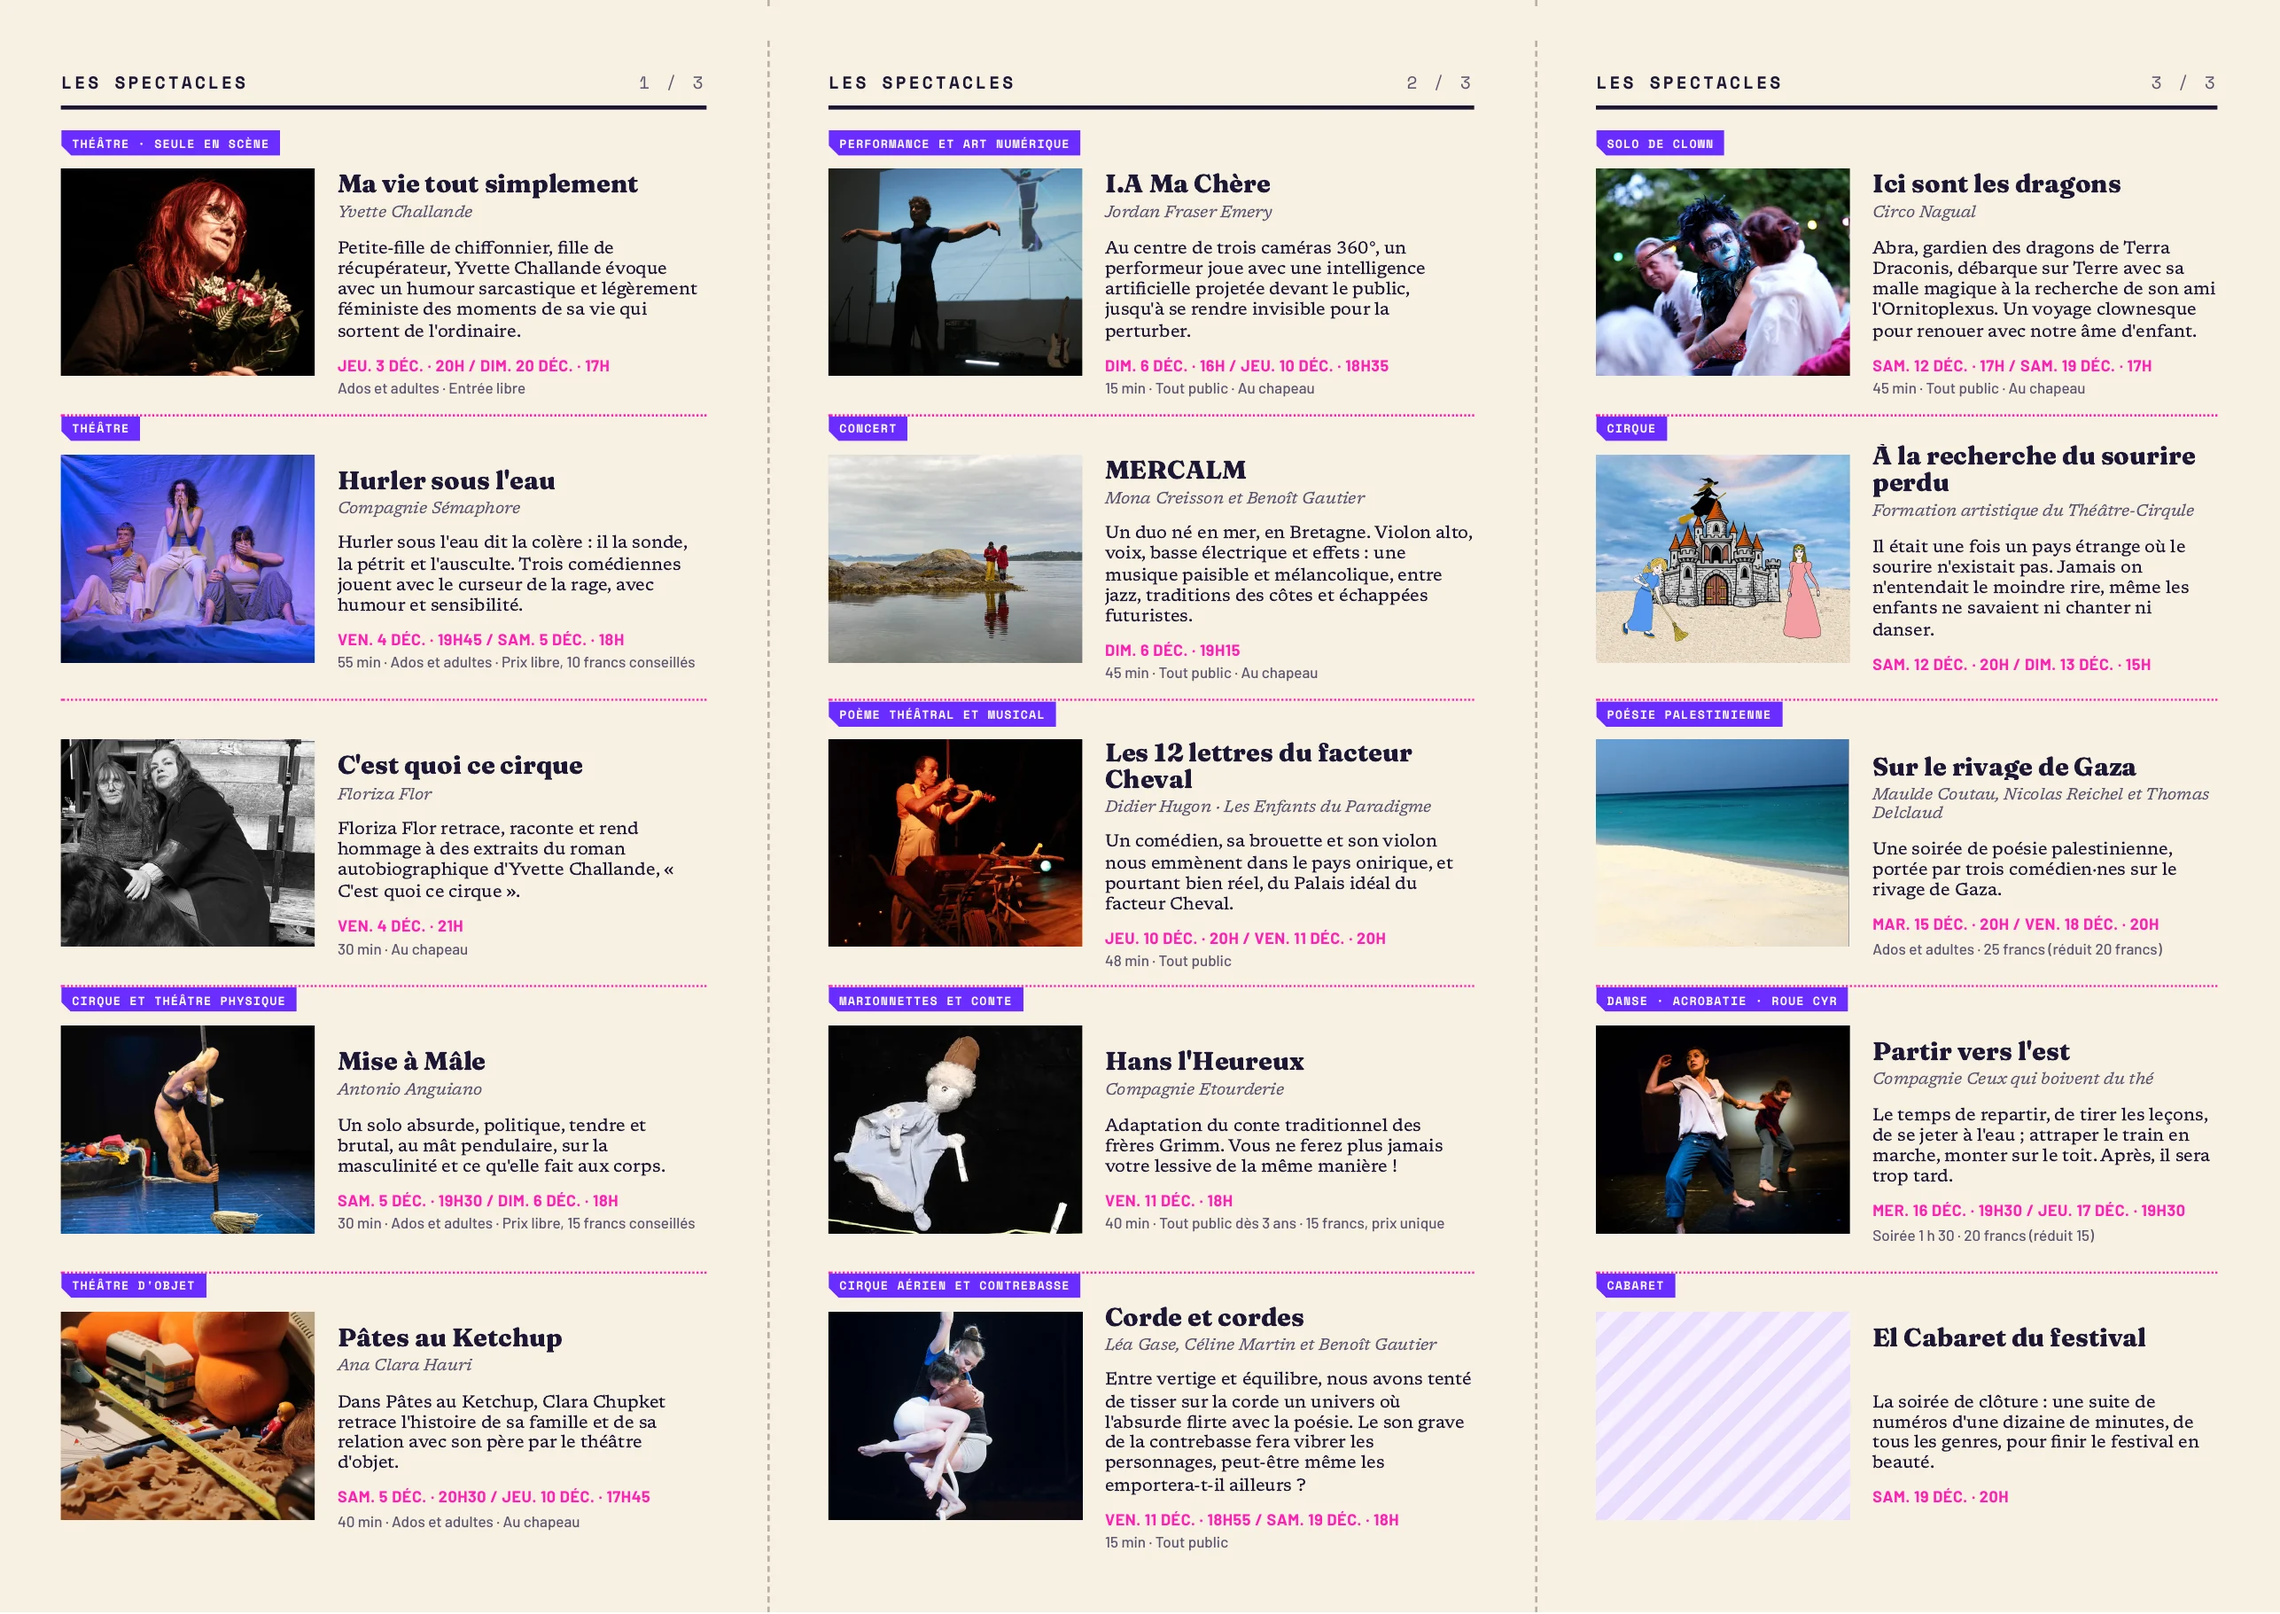
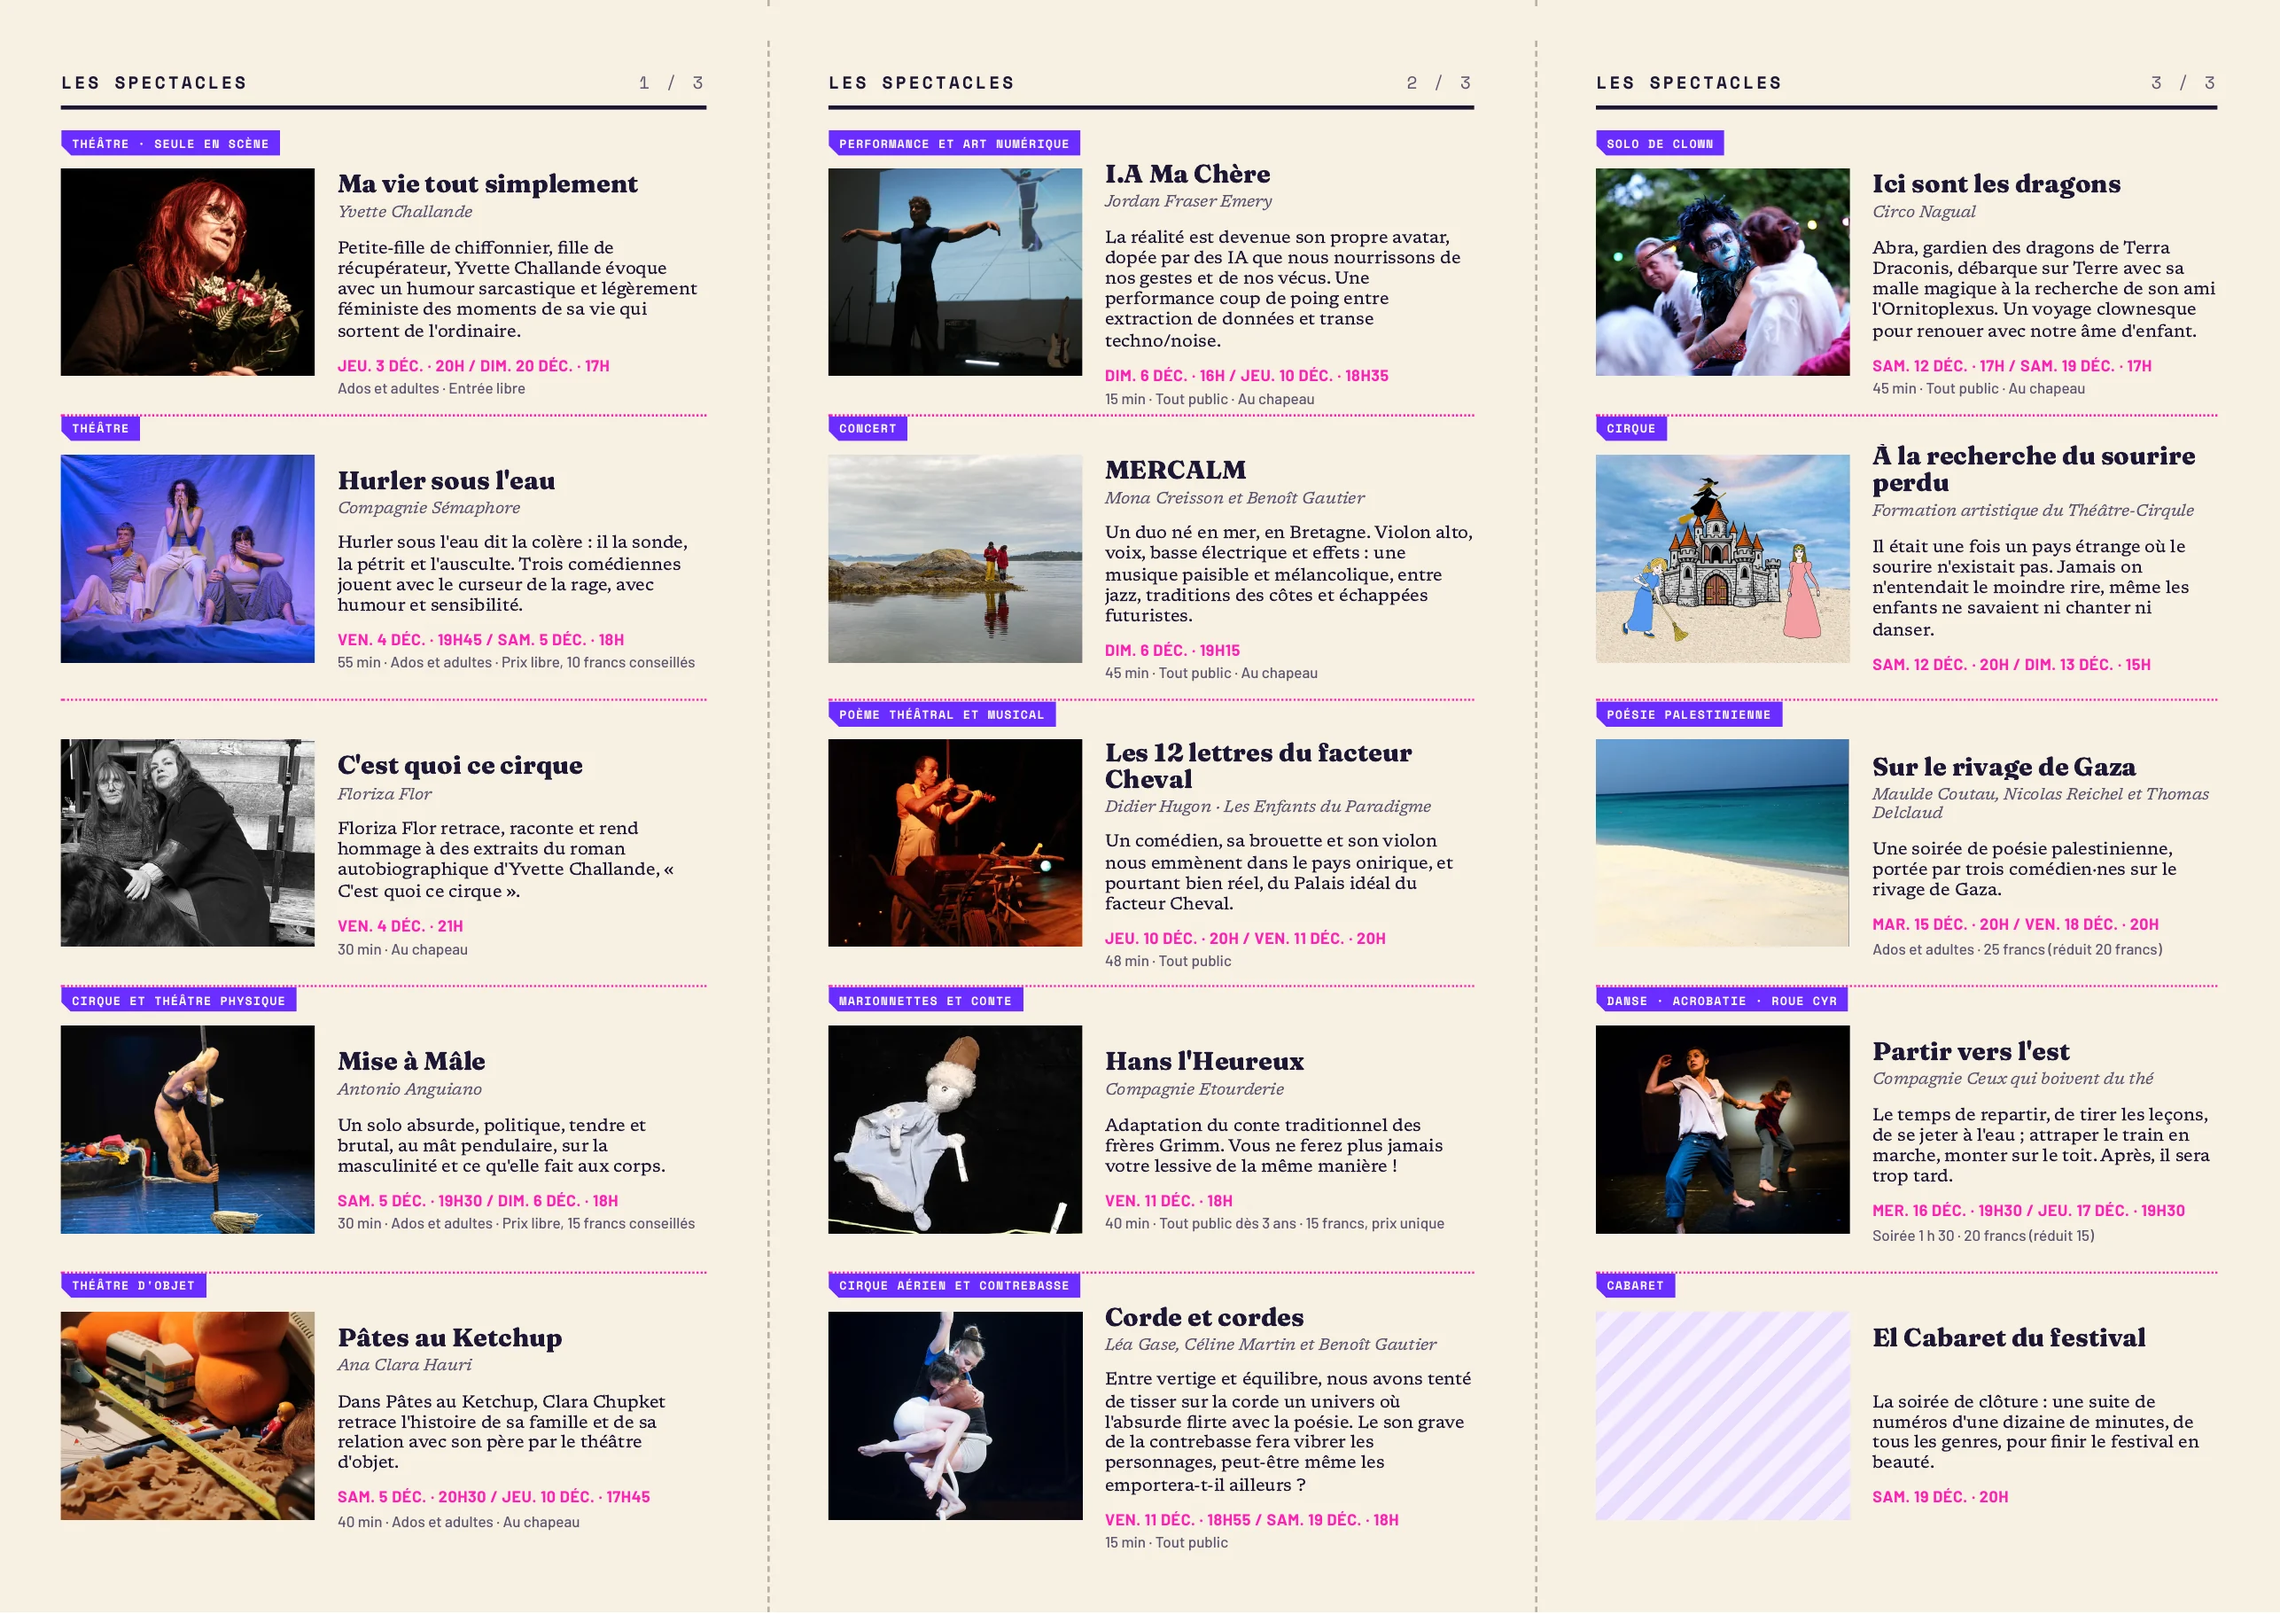
Page du dépliant : nouvelle version (texte I.A Ma Chère)
Claude-Session: https://claude.ai/code/session_01S2GuEiwwHEBNEWKLFkr5Cq

Changed region(s): [[0.4664, 0.0923, 0.6218, 0.246]]

diff --git a/apercu/depliant/index.html b/apercu/depliant/index.html
@@ -23,8 +23,8 @@ a{color:#6b2cff}
 </head>
 <body>
 <main>
-<a class="img" href="depliant-exterieur.webp?v=202611111506"><img src="depliant-exterieur.webp?v=202611111506" alt="Dépliant du P’tit Festival, extérieur : présentation, programme jour par jour, couverture" width="2573" height="1819"></a>
-<a class="img" href="depliant-interieur.webp?v=202611111506"><img src="depliant-interieur.webp?v=202611111506" alt="Dépliant du P’tit Festival, intérieur : les spectacles, avec photos, dates et tarifs" width="2573" height="1819"></a>
+<a class="img" href="depliant-exterieur.webp?v=202611111511"><img src="depliant-exterieur.webp?v=202611111511" alt="Dépliant du P’tit Festival, extérieur : présentation, programme jour par jour, couverture" width="2573" height="1819"></a>
+<a class="img" href="depliant-interieur.webp?v=202611111511"><img src="depliant-interieur.webp?v=202611111511" alt="Dépliant du P’tit Festival, intérieur : les spectacles, avec photos, dates et tarifs" width="2573" height="1819"></a>
 </main>
 </body>
 </html>
